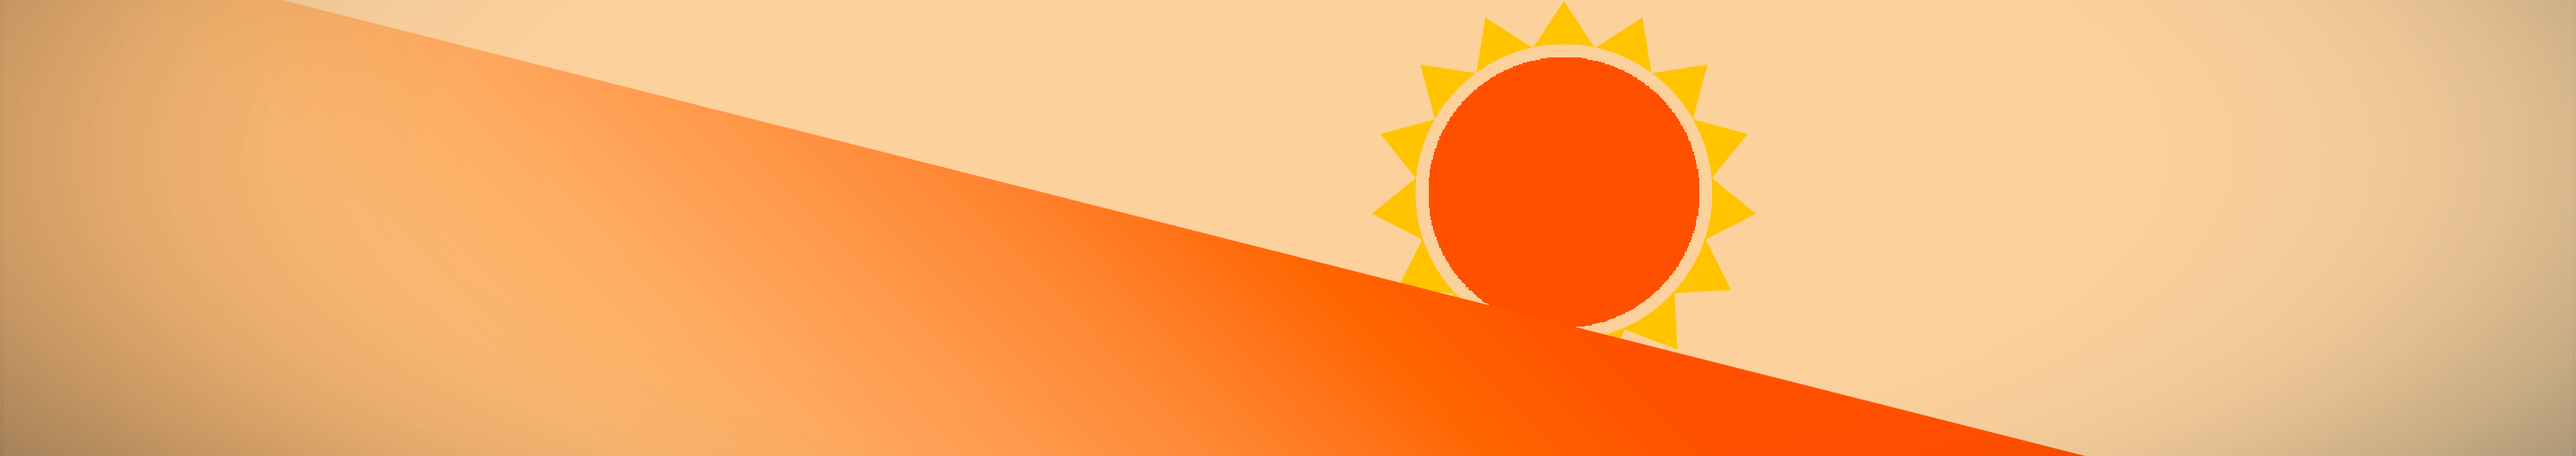
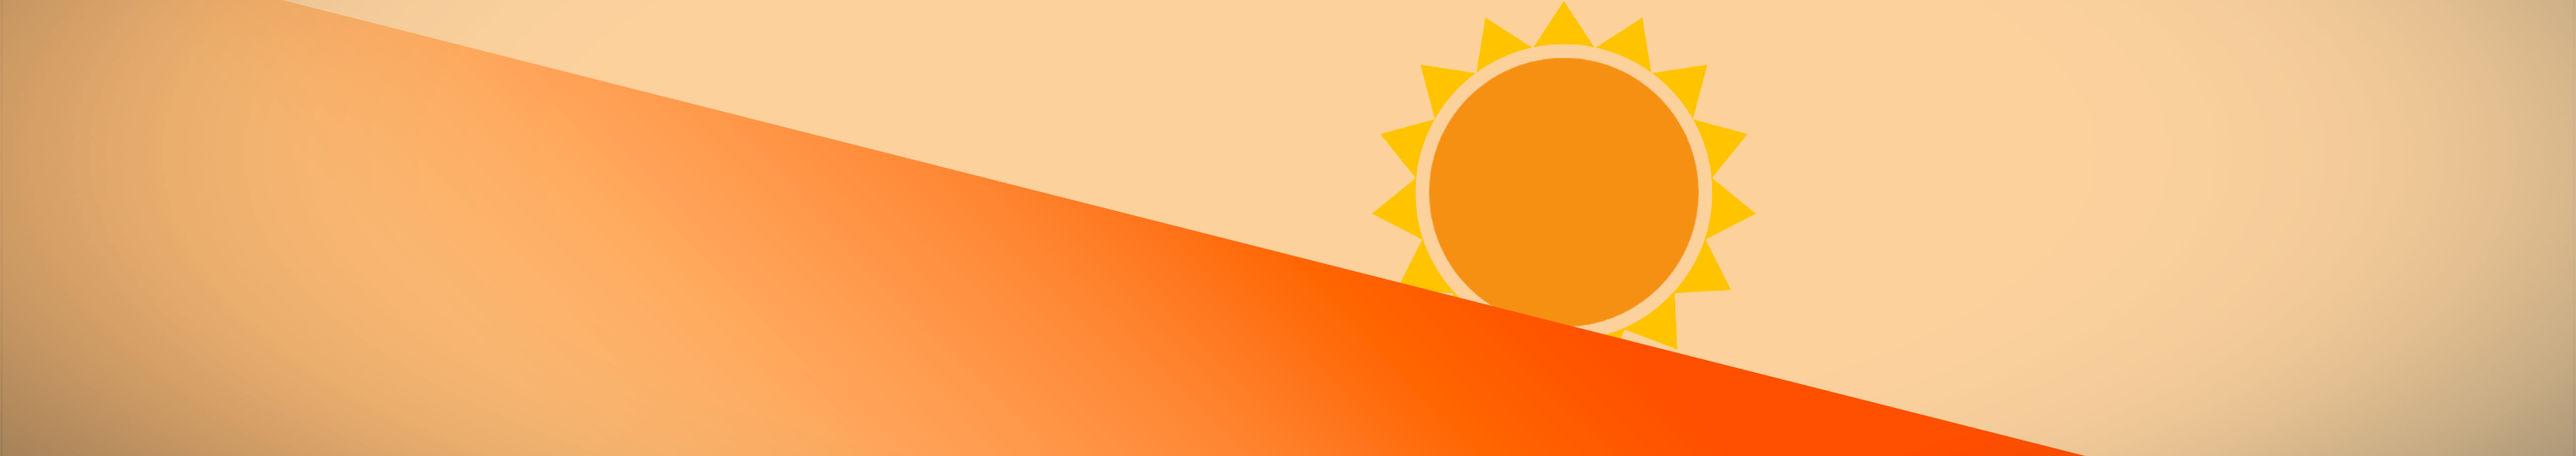
Modificando repositório

Changed region(s): [[0.527, 0.1203, 0.682, 0.7218]]

diff --git a/style.css b/style.css
@@ -84,7 +84,7 @@ button, .footer-contact a {
 
 
 header {
-    background: #de8f29;
+    background: #e25101;
     background-image: url('imagens/bg_cabecalho.png'); /* Substitua pelo caminho correto */
     background-size: cover; /* Para cobrir todo o cabeçalho */
     background-position: center; /* Centraliza a imagem */
@@ -448,7 +448,7 @@ button:hover {
 /* RODAPÉ */
 /* ============================= */
 .site-footer {
-  background: #de8f29;
+  background: #e25101;
   color: #fff;
   padding: 30px 16px;
   margin-top: 40px;
